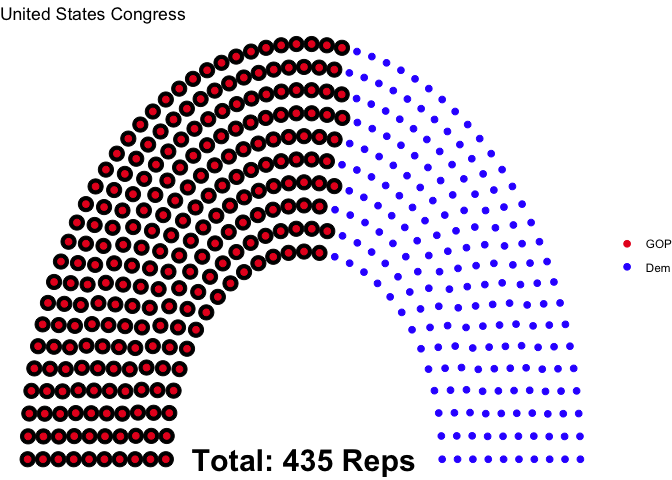
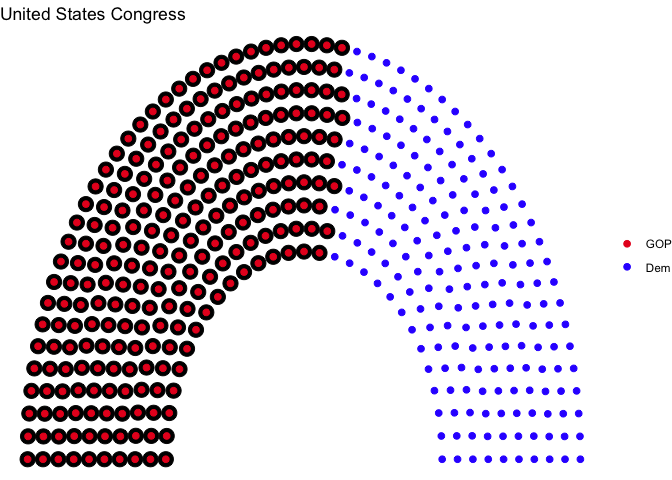
upload draw_legislaturelabels.R

Changed region(s): [[0.2812, 0.9375, 0.625, 1.0]]

diff --git a/README.md b/README.md
@@ -78,10 +78,8 @@ ggplot(us_congress1, aes(x,
   theme_void() +
   labs(colour = NULL, 
        title = "United States Congress") +
-  annotate("text", x=0, y=0, 
-           label=paste("Total:", sum(us_congress$seats), "Reps"), fontface="bold", size=8) +
   scale_colour_manual(values = us_congress1$colour, 
-                      limits = us_congress1$party_short)
+                      limits = us_congress1$party_short) 
 ```
 
 ![](README_files/figure-html/unnamed-chunk-4-1.png)<!-- -->
@@ -415,8 +413,7 @@ ggplot(usa_12, aes(x,
        title = "2012 American Congress",
        subtitle = "Party that controls the chamber is highlighted in black.") +
   scale_colour_manual(values = usa_12$colour, 
-                      limits = usa_12$party_short) + 
-  theme(legend.position = 'right') 
+                      limits = usa_12$party_short) 
 ```
 
 ![](README_files/figure-html/unnamed-chunk-16-1.png)<!-- -->
@@ -508,7 +505,59 @@ german_parliament
 
 ![](README_files/figure-html/unnamed-chunk-19-1.png)<!-- -->
 
+# Labels
+
+I created `draw_legislaturelabels()`... It currently plots the center text with total number of seats (as defined by user), the party name and seats per party. All are logical options. You need to define 'type' here as well -- currently only supports 'semicircle' and 'horseshoe'
+
+
+```r
+ggplot(usa_12, aes(x, 
+                   y, 
+                   colour = party_short)) +
+  geom_parliament_seats() + 
+  geom_highlight_government(government == 1) + 
+  draw_majoritythreshold(n = 218,
+                         type = "semicircle") + 
+  draw_legislaturelabels(total_parliamentary_seats = 435,
+                         type = 'semicircle') + 
+  theme_void() +
+  labs(colour = NULL, 
+       title = "2012 American Congress",
+       subtitle = "Party that controls the chamber is highlighted in black.") +
+  scale_colour_manual(values = usa_12$colour, 
+                      limits = usa_12$party_short) 
+```
+
+![](README_files/figure-html/unnamed-chunk-20-1.png)<!-- -->
+
+```r
+au <-ggplot(australia1, aes(x, 
+                            y, 
+                            colour = party_short)) +
+  geom_parliament_seats() + 
+  geom_highlight_government(government == 1) + 
+  draw_majoritythreshold(n = 76,
+                         type = 'horseshoe') + 
+  draw_legislaturelabels(total_parliamentary_seats = 150,
+                         type = 'horseshoe') + 
+  theme_void() +
+  labs(colour = NULL, 
+       title = "Australian Parliament",
+       subtitle = "Government encircled in black.") +
+  scale_colour_manual(values = australia$colour, 
+                      limits = australia$party_short)
+au
+```
+
+![](README_files/figure-html/unnamed-chunk-21-1.png)<!-- -->
+
+
+
 # TODO
+## Theme 
+
+We might need to make our own theme...
+I think theme_void() + theme(legend.postion = 'none') might work... Thoughts?
 
 ## Women in parliament
 
@@ -520,12 +569,6 @@ german_parliament
 
 **Note**: `geom_women_in_parliament()` and `geom_electoral_quota()` have not yet been incorporated into `parliament_data()`. I think the best way to do that is to include aggregate data on women as well as those elected through a quota process as two new variables, and then expand that number to a long logical variable. i.e. if the Australian Labor Party has 48 female MPs in the House of Representatives in 2016, that column will expand into 48 1s and 0 for the remainder. I don't think we need to find data to match election_data. We can either find a new dataset with the variables we need or we make one (but I'm sure someone has it already). 
 
-
-## Labels
-
-* This also needs work
-
-* Happy to take a look at your previous code, Rob, and add back into this branch.
 
 ## Facets
 
